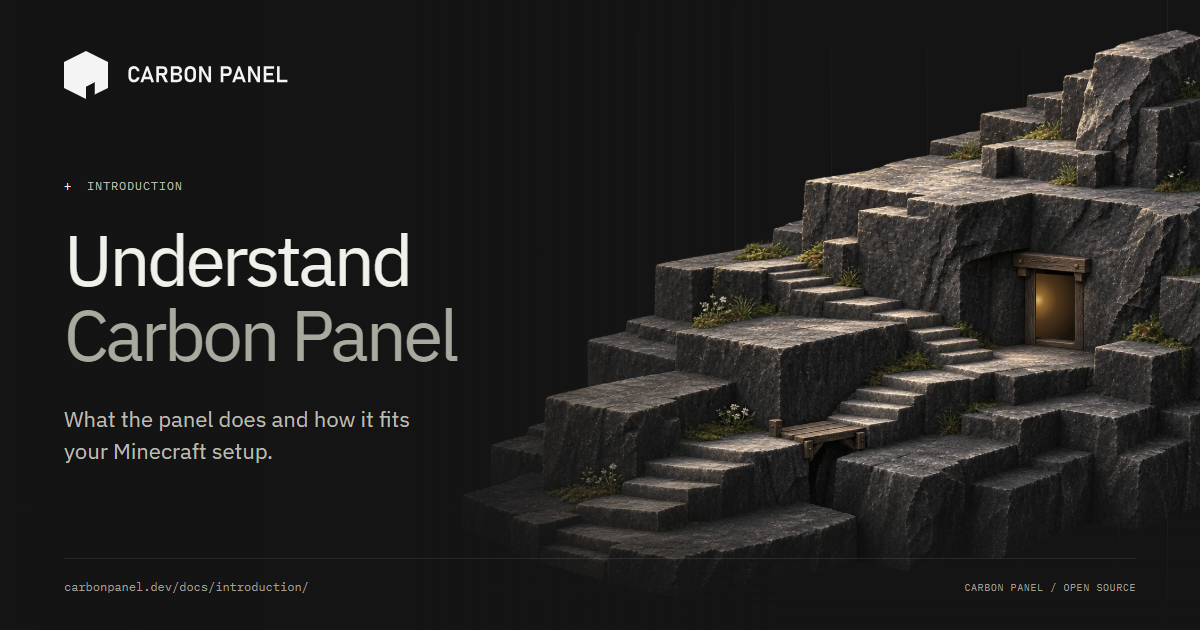
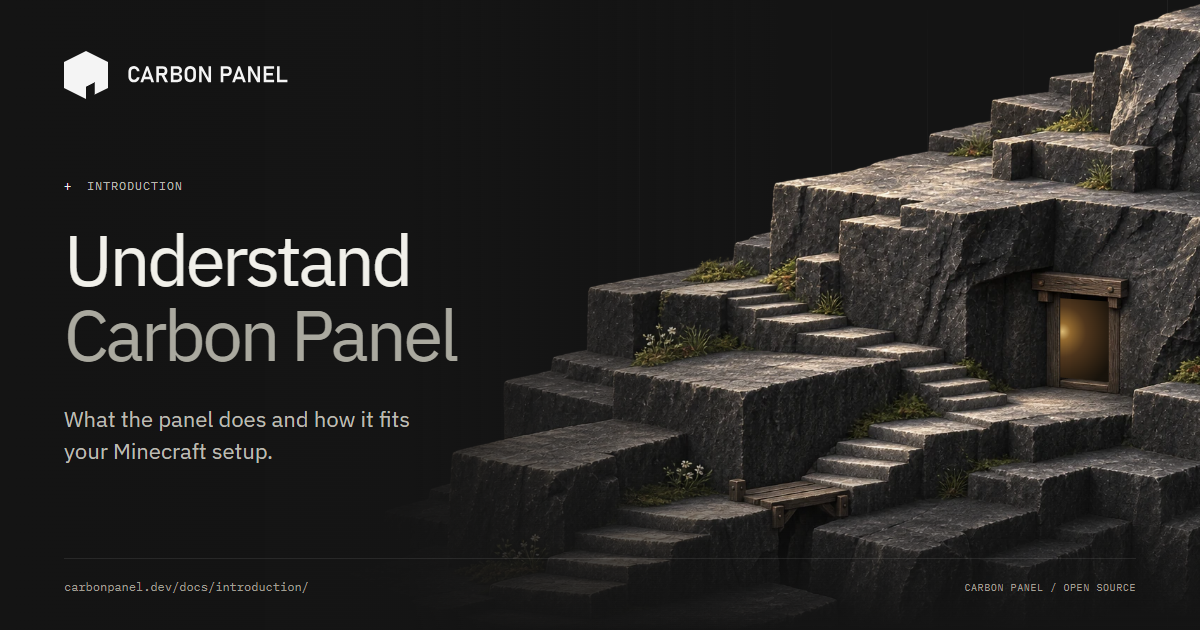
Frame terrain artwork more closely in README and social previews (#449)

diff --git a/docs/design-system/index.html b/docs/design-system/index.html
@@ -14,7 +14,7 @@
 		<meta property="og:title" content="Carbon design system | Carbon Panel" />
 		<meta property="og:description" content="The shared design language for Carbon Panel and Carbon Cloud: color, type, spacing, elevation, motion, components and patterns." />
 		<meta property="og:url" content="https://carbonpanel.dev/design-system/" />
-		<meta property="og:image" content="https://carbonpanel.dev/assets/og-design-system.png?v=20261113" />
+		<meta property="og:image" content="https://carbonpanel.dev/assets/og-design-system.png?v=20261113-2" />
 		<meta property="og:image:type" content="image/png" />
 		<meta property="og:image:width" content="1200" />
 		<meta property="og:image:height" content="630" />
@@ -22,7 +22,7 @@
 		<meta name="twitter:card" content="summary_large_image" />
 		<meta name="twitter:title" content="Carbon design system | Carbon Panel" />
 		<meta name="twitter:description" content="The shared design language for Carbon Panel and Carbon Cloud: color, type, spacing, elevation, motion, components and patterns." />
-		<meta name="twitter:image" content="https://carbonpanel.dev/assets/og-design-system.png?v=20261113" />
+		<meta name="twitter:image" content="https://carbonpanel.dev/assets/og-design-system.png?v=20261113-2" />
 		<meta name="twitter:image:alt" content="Carbon Design System. Foundations, components and patterns shared by Carbon Panel and Carbon Cloud." />
 		<script type="application/ld+json">
 			{
@@ -35,7 +35,7 @@
 				"inLanguage": "en",
 				"primaryImageOfPage": {
 					"@type": "ImageObject",
-					"url": "https://carbonpanel.dev/assets/og-design-system.png?v=20261113",
+					"url": "https://carbonpanel.dev/assets/og-design-system.png?v=20261113-2",
 					"width": 1200,
 					"height": 630
 				}

diff --git a/assets/branding/social-preview.html b/assets/branding/social-preview.html
@@ -22,8 +22,8 @@
       .subtitle { margin: 27px 0 0; font-size: 23px; line-height: 1.45; color: #bdbbb2; max-width: 560px; }
       .document h1 { font-size: 72px; letter-spacing: -.045em; }
       .document .subtitle { margin-top: 30px; max-width: 515px; font-size: 22px; }
-      .world { position: absolute; width: 870px; height: 580px; right: -116px; top: 21px; z-index: -2; }
-      .world img { display: block; width: 100%; height: 100%; }
+      .world { position: absolute; width: 1080px; aspect-ratio: 3 / 2; right: -208px; top: -15px; z-index: -2; }
+      .world img { display: block; width: 100%; height: auto; }
       .entrance { position: absolute; left: 67.8%; top: 43.5%; width: 4.5%; height: 11.7%; clip-path: polygon(0 0, 100% 4%, 100% 100%, 0 94%); background: radial-gradient(ellipse at 5% 40%, #f2c27a, #a76c30 12%, #5b371e 36%, #19120b 85%); opacity: .94; }
       .veil { position: absolute; inset: 0; background: linear-gradient(90deg, #141414 0%, #141414f5 34%, #14141480 49%, transparent 65%), linear-gradient(0deg, #141414 0%, transparent 27%); z-index: -1; }
       footer { position: absolute; left: 64px; right: 64px; bottom: 34px; display: flex; justify-content: space-between; align-items: center; border-top: 1px solid #ffffff16; padding-top: 19px; font: 12px/1.5 "IBM Plex Mono", monospace; color: #a19f94; }

diff --git a/landing/index.html b/landing/index.html
@@ -42,7 +42,7 @@
     <meta property="og:url" content="https://carbonpanel.dev/" />
     <meta
       property="og:image"
-      content="https://carbonpanel.dev/assets/og.png?v=20261113"
+      content="https://carbonpanel.dev/assets/og.png?v=20261113-2"
     />
     <meta property="og:image:type" content="image/png" />
     <meta property="og:image:width" content="1200" />
@@ -62,7 +62,7 @@
     />
     <meta
       name="twitter:image"
-      content="https://carbonpanel.dev/assets/og.png?v=20261113"
+      content="https://carbonpanel.dev/assets/og.png?v=20261113-2"
     />
     <meta
       name="twitter:image:alt"
@@ -100,7 +100,7 @@
             "inLanguage": "en",
             "primaryImageOfPage": {
               "@type": "ImageObject",
-              "url": "https://carbonpanel.dev/assets/og.png?v=20261113",
+              "url": "https://carbonpanel.dev/assets/og.png?v=20261113-2",
               "width": 1200,
               "height": 630
             }
@@ -117,7 +117,7 @@
             "license": "https://www.mozilla.org/MPL/2.0/",
             "isAccessibleForFree": true,
             "softwareVersion": "v3.0.0-beta.4",
-            "image": "https://carbonpanel.dev/assets/og.png?v=20261113"
+            "image": "https://carbonpanel.dev/assets/og.png?v=20261113-2"
           }
         ]
       }

diff --git a/assets/readme/hero.html b/assets/readme/hero.html
@@ -93,16 +93,16 @@
       }
       .world {
         position: absolute;
-        width: 760px;
-        height: 506.6667px;
-        right: -90px;
-        top: -18px;
+        width: 1080px;
+        aspect-ratio: 3 / 2;
+        right: -192px;
+        top: -108px;
         z-index: -1;
       }
       .world img {
         display: block;
         width: 100%;
-        height: 100%;
+        height: auto;
       }
       .entrance {
         position: absolute;

diff --git a/scripts/test_website.py b/scripts/test_website.py
@@ -103,7 +103,7 @@ class WebsiteTests(unittest.TestCase):
             self.assertIn("github.com/athNdev/carbonpanel/blob/main/docs/design-system/README.md", page)
             self.assertNotIn("../../web/carbon-panel/", page)
             self.assertIn('property="og:image"', page)
-            self.assertIn('content="https://carbonpanel.dev/assets/og-design-system.png?v=20261113"', page)
+            self.assertIn('content="https://carbonpanel.dev/assets/og-design-system.png?v=20261113-2"', page)
             self.assertEqual(
                 (design / "tokens.css").read_bytes(),
                 (root / "web/carbon-panel/src/lib/design-system/tokens.css").read_bytes())

diff --git a/knowledge/decisions/product-readme.md b/knowledge/decisions/product-readme.md
@@ -21,8 +21,10 @@ sources:
 # Decision
 
 The root README carries the website's terrain and approved logo in a decorative
-banner, with portable HTML source beside its raster export. Product screenshots
-are a separate kind of asset: native browser captures of the current application
+banner, with portable HTML source beside its raster export. The terrain keeps
+its natural 3:2 proportions; close framing is achieved by cropping the composition
+rather than stretching the artwork. Product screenshots are a separate kind of
+asset: native browser captures of the current application
 running in an isolated installation with review data. Never substitute generated
 UI, the homepage's fixture islands or edited telemetry for an application capture.
 

diff --git a/assets/readme/README.md b/assets/readme/README.md
@@ -12,3 +12,6 @@ IBM Plex fonts, and `landing/assets/graphite-world.webp`. The terrain's original
 generation prompt is recorded in [artwork provenance](../../docs/homepage-artwork.md).
 This banner is decorative artwork. Product images in `assets/showcase/` are
 separate, unretouched captures from the running application.
+
+The terrain retains its natural 3:2 proportions. The banner crops a closer view
+around the doorway and terraces; it never scales width and height separately.
